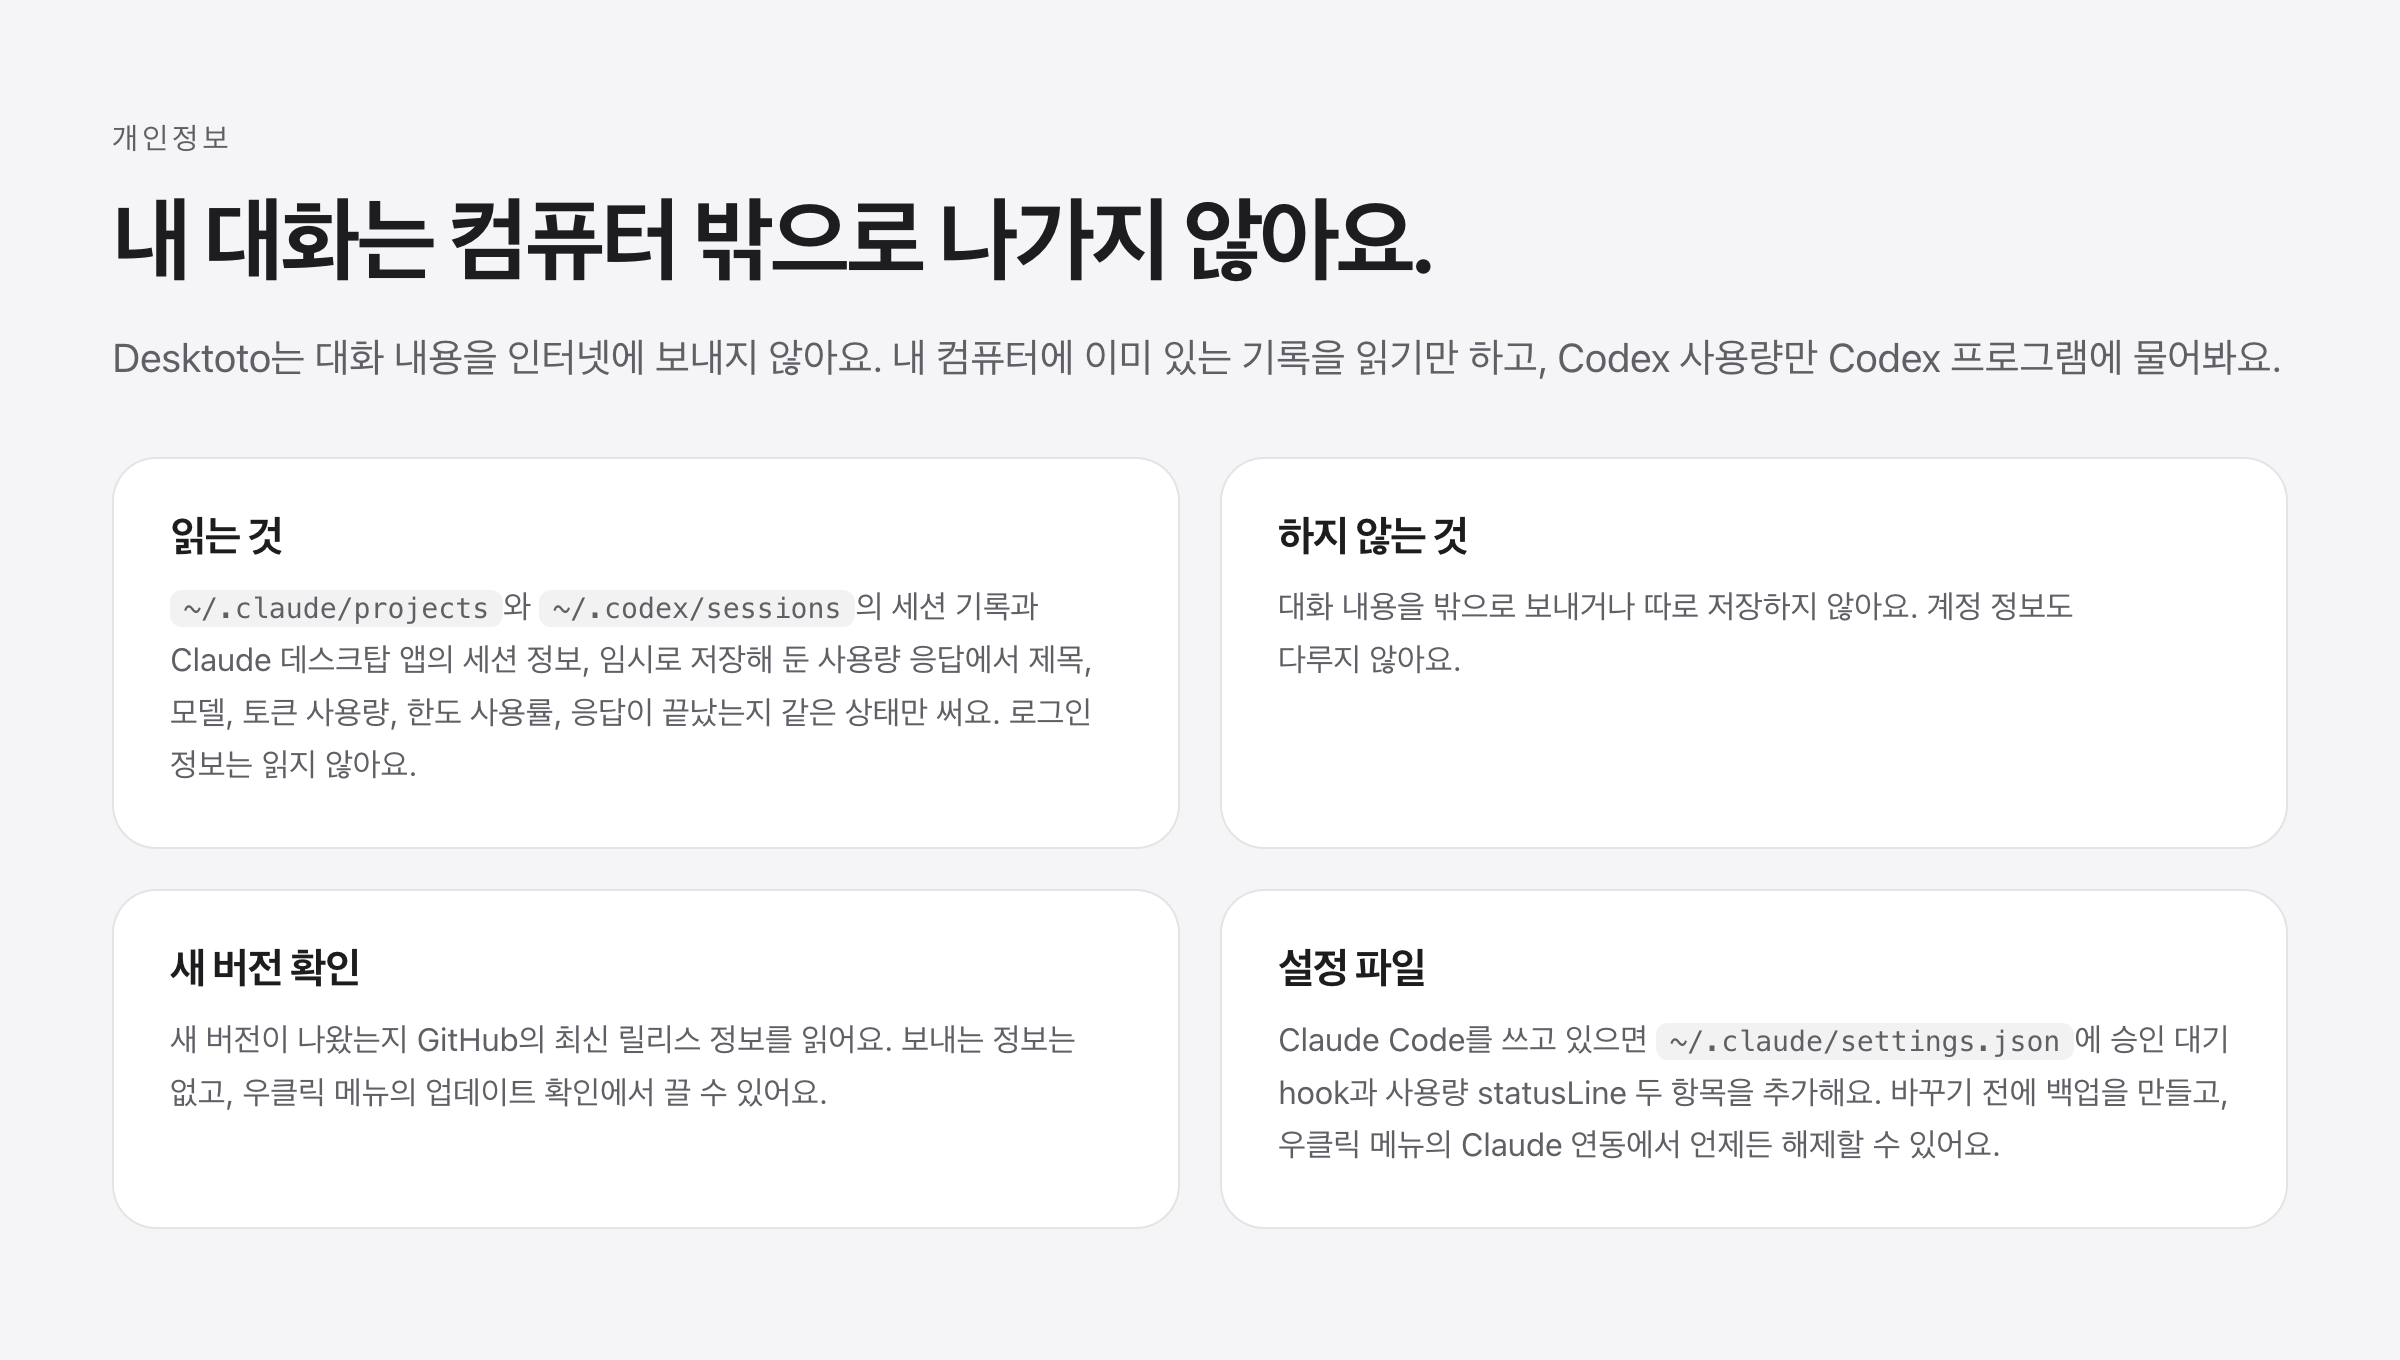
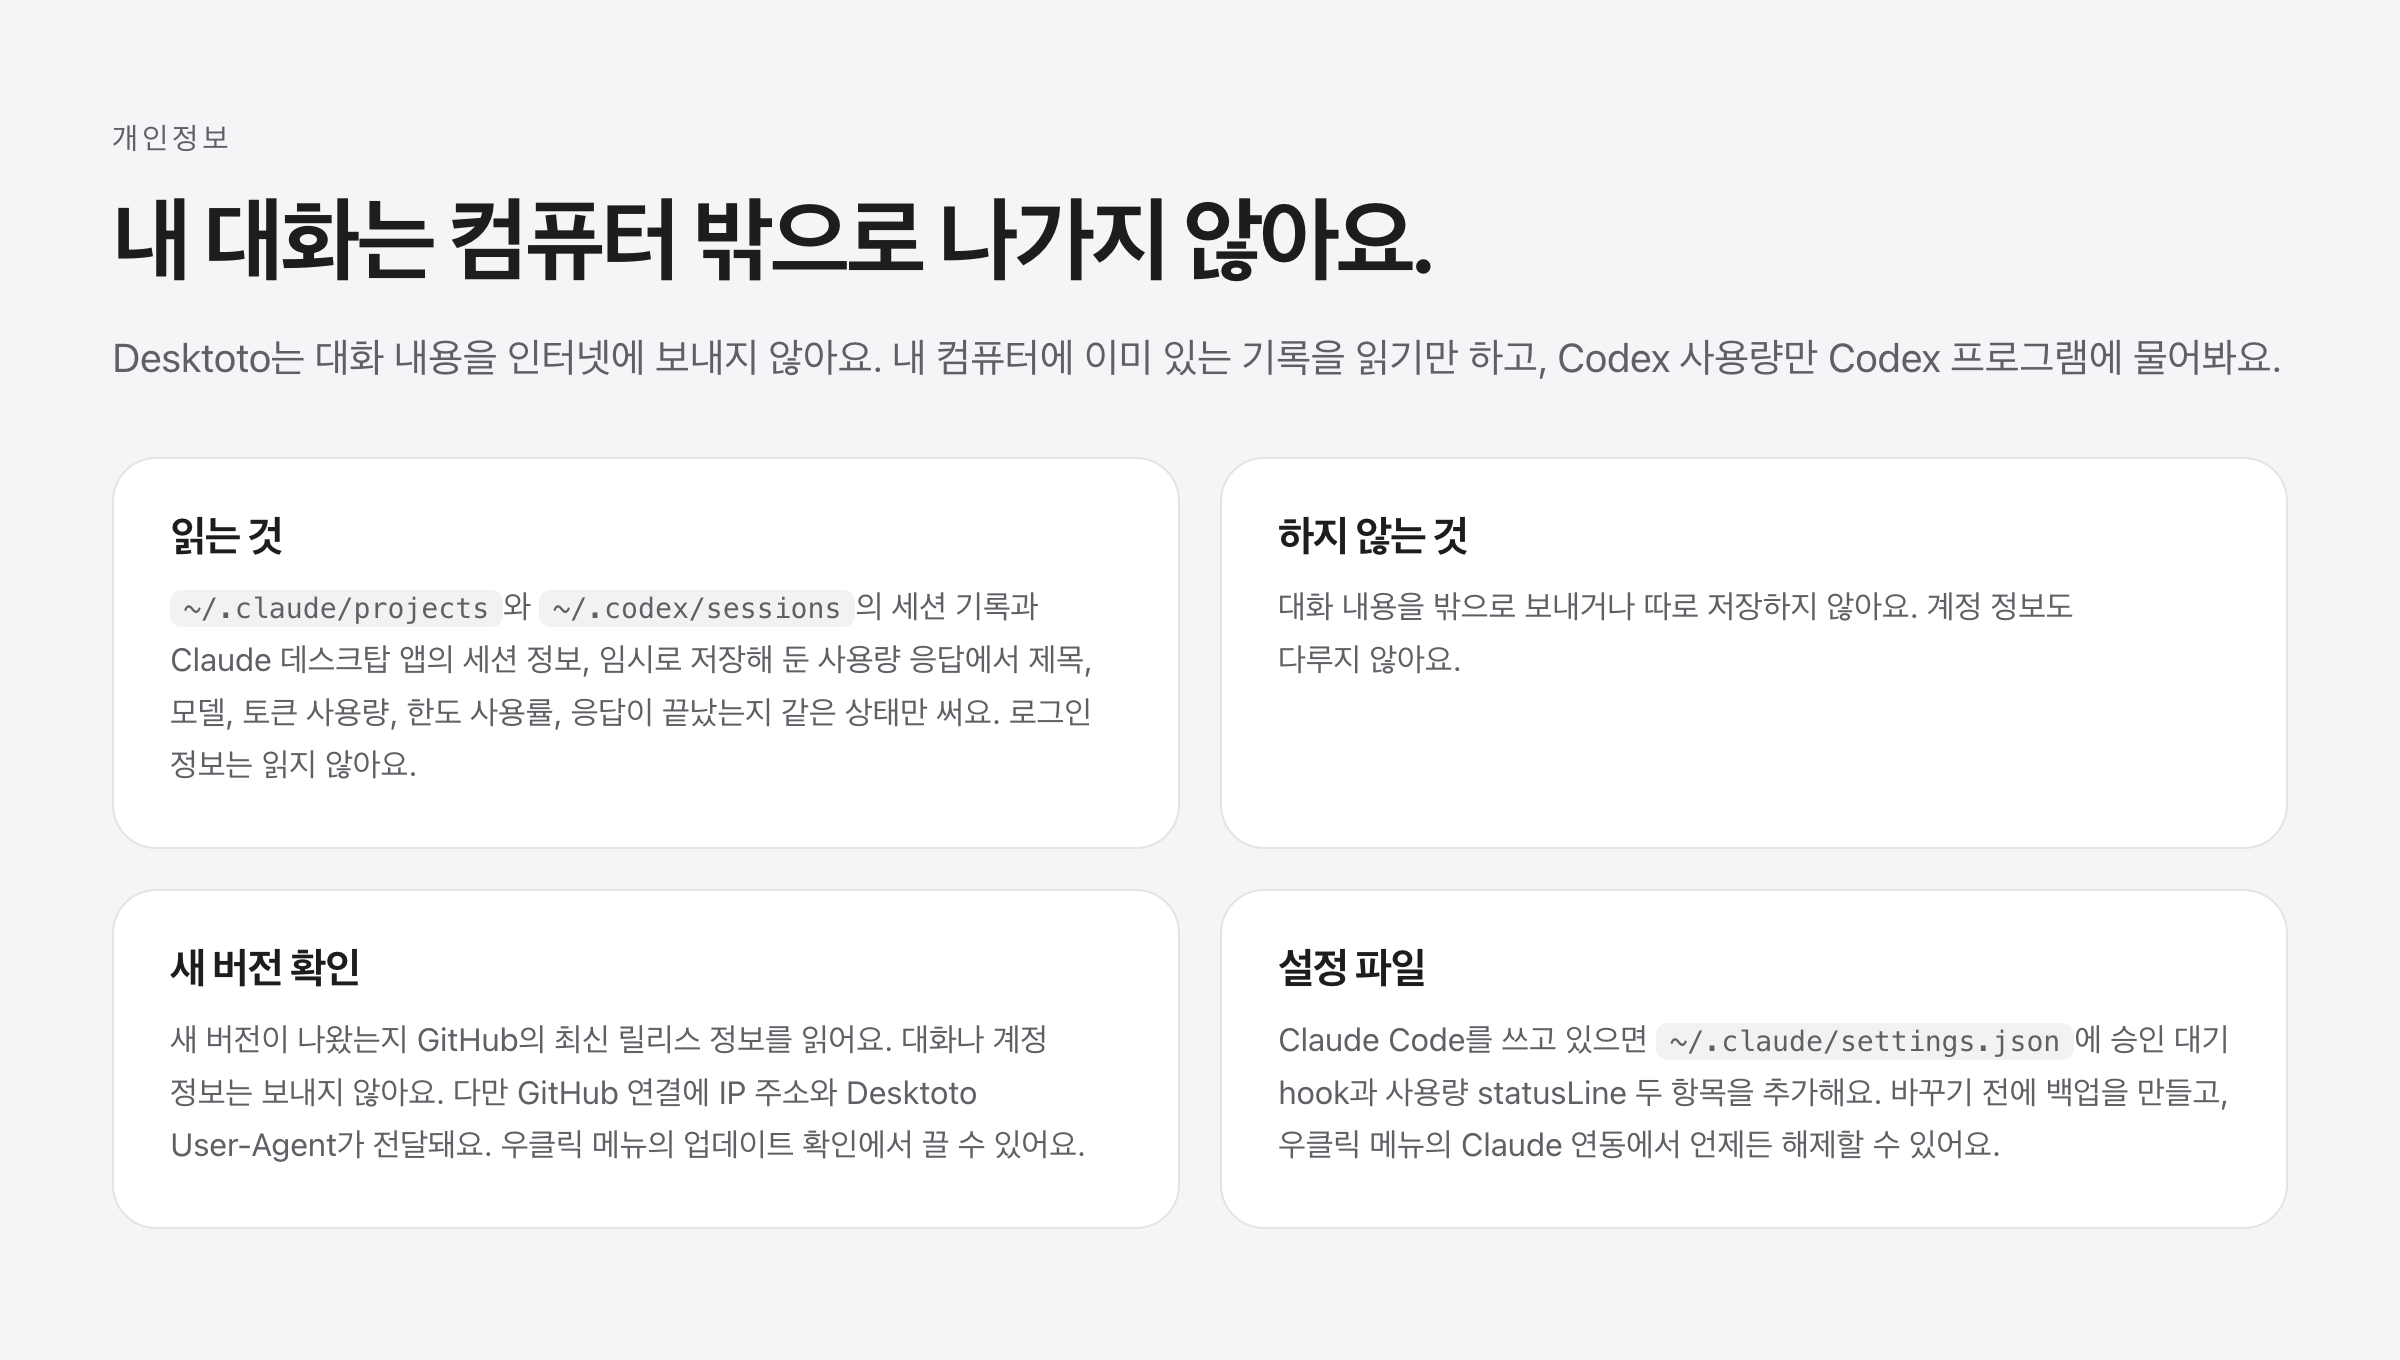
docs: 개인정보 이미지의 새 버전 확인 문구에 IP 주소 전달 명시
업데이트 확인 요청에는 GitHub에 IP 주소와 User-Agent(Desktoto)가 전달되므로
"보내는 정보는 없고"를 대화와 계정 정보는 보내지 않는다는 표현으로 고쳤다.

Refs #37

Changed region(s): [[0.0625, 0.7412, 0.4375, 0.8647]]

diff --git a/docs/images/readme/source.html b/docs/images/readme/source.html
@@ -309,7 +309,7 @@
   <div class="pgrid">
     <div class="card"><h3>읽는 것</h3><p><code>~/.claude/projects</code>와 <code>~/.codex/sessions</code>의 세션 기록과 Claude 데스크탑 앱의 세션 정보, 임시로 저장해 둔 사용량 응답에서 제목, 모델, 토큰 사용량, 한도 사용률, 응답이 끝났는지 같은 상태만 써요. 로그인 정보는 읽지 않아요.</p></div>
     <div class="card"><h3>하지 않는 것</h3><p>대화 내용을 밖으로 보내거나 따로 저장하지 않아요. 계정 정보도 다루지 않아요.</p></div>
-    <div class="card"><h3>새 버전 확인</h3><p>새 버전이 나왔는지 GitHub의 최신 릴리스 정보를 읽어요. 보내는 정보는 없고, 우클릭 메뉴의 업데이트 확인에서 끌 수 있어요.</p></div>
+    <div class="card"><h3>새 버전 확인</h3><p>새 버전이 나왔는지 GitHub의 최신 릴리스 정보를 읽어요. 대화나 계정 정보는 보내지 않아요. 다만 GitHub 연결에 IP 주소와 Desktoto <span style="white-space:nowrap">User-Agent</span>가 전달돼요. 우클릭 메뉴의 업데이트 확인에서 끌 수 있어요.</p></div>
     <div class="card"><h3>설정 파일</h3><p>Claude Code를 쓰고 있으면 <code>~/.claude/settings.json</code>에 승인 대기 hook과 사용량 statusLine 두 항목을 추가해요. 바꾸기 전에 백업을 만들고, 우클릭 메뉴의 Claude 연동에서 언제든 해제할 수 있어요.</p></div>
   </div>
 </section>
